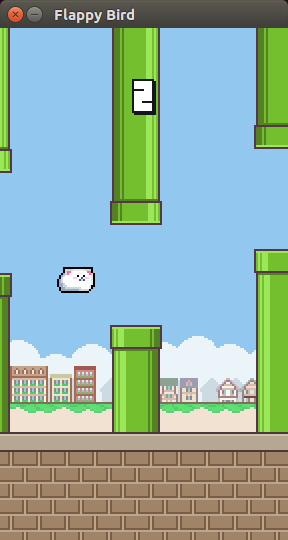
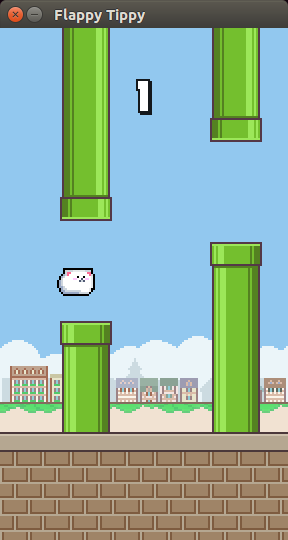
:v:

diff --git a/tippy/play.py b/tippy/play.py
@@ -51,7 +51,7 @@ def main():
     pygame.init()
     FPSCLOCK = pygame.time.Clock()
     SCREEN = pygame.display.set_mode((SCREENWIDTH, SCREENHEIGHT))
-    pygame.display.set_caption('Flappy Bird')
+    pygame.display.set_caption('Flappy Tippy')
 
     # numbers sprites for score display
     IMAGES['numbers'] = (
